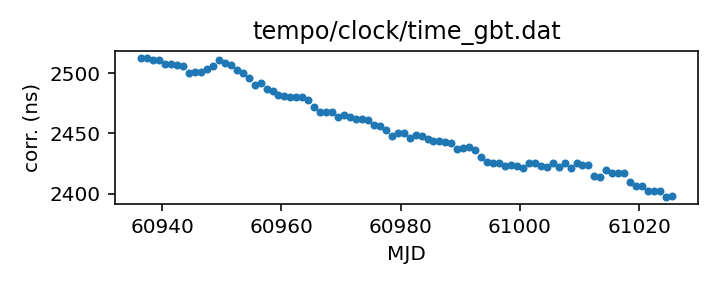
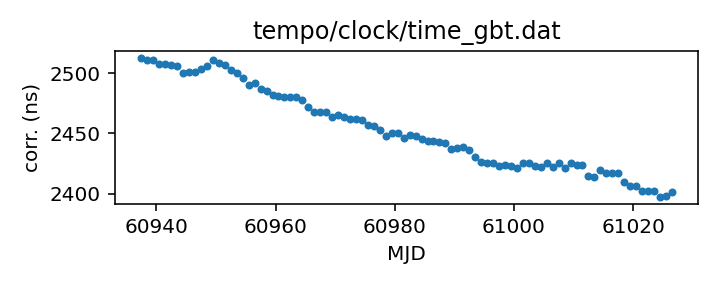
Routine gh-pages update from Github action Thu Dec 18 20:42:24 UTC 2025

diff --git a/status.md b/status.md
@@ -13,18 +13,18 @@ name of each clock file links to a page with more details.
 
 | Name | File | Corrections start | Corrections end | Last check date | Last check result 
 |:--- |:--- | --- | --- | --- |:--- 
-| [GPS to UTC](T2runtime/clock/gps2utc.clk.html) | `T2runtime/clock/gps2utc.clk` | 1993-01-01 MJD 48988.0 | 2025-11-30 MJD 61009.0 | 2025-12-17 | Unchanged 
-| [GPS to UTC (Combined Clock)](T2runtime/clock/gps2utc_cc.clk.html) | `T2runtime/clock/gps2utc_cc.clk` | 1993-01-01 MJD 48988.0 | 2025-11-30 MJD 61009.0 | 2025-12-17 | Unchanged 
-| [GPS to UTC (Corrected)](T2runtime/clock/gps2utc_c0p.clk.html) | `T2runtime/clock/gps2utc_c0p.clk` | 2010-12-29 MJD 55559.0 | 2025-11-30 MJD 61009.0 | 2025-12-17 | Unchanged 
-| [GBT](tempo/clock/time_gbt.dat.html) | `tempo/clock/time_gbt.dat` | 2000-12-31 MJD 51909.5 | 2025-12-16 MJD 61025.5 | 2025-12-17 | Updated 
-| [GBT (TEMPO2 converted from TEMPO)](T2runtime/clock/gbt2gps.clk.html) | `T2runtime/clock/gbt2gps.clk` | 2000-12-31 MJD 51909.5 | 2024-05-18 MJD 60448.5 | 2025-12-17 | **Validation failed** 
+| [GPS to UTC](T2runtime/clock/gps2utc.clk.html) | `T2runtime/clock/gps2utc.clk` | 1993-01-01 MJD 48988.0 | 2025-11-30 MJD 61009.0 | 2025-12-18 | Unchanged 
+| [GPS to UTC (Combined Clock)](T2runtime/clock/gps2utc_cc.clk.html) | `T2runtime/clock/gps2utc_cc.clk` | 1993-01-01 MJD 48988.0 | 2025-11-30 MJD 61009.0 | 2025-12-18 | Unchanged 
+| [GPS to UTC (Corrected)](T2runtime/clock/gps2utc_c0p.clk.html) | `T2runtime/clock/gps2utc_c0p.clk` | 2010-12-29 MJD 55559.0 | 2025-11-30 MJD 61009.0 | 2025-12-18 | Unchanged 
+| [GBT](tempo/clock/time_gbt.dat.html) | `tempo/clock/time_gbt.dat` | 2000-12-31 MJD 51909.5 | 2025-12-17 MJD 61026.5 | 2025-12-18 | Updated 
+| [GBT (TEMPO2 converted from TEMPO)](T2runtime/clock/gbt2gps.clk.html) | `T2runtime/clock/gbt2gps.clk` | 2000-12-31 MJD 51909.5 | 2024-05-18 MJD 60448.5 | 2025-12-18 | **Validation failed** 
 | [Jodrell Bank](T2runtime/clock/jb2gps.clk.html) | `T2runtime/clock/jb2gps.clk` | 2006-10-13 MJD 54021.4 | 2025-10-08 MJD 60956.0 | 2025-12-15 | **Validation failed** 
 | [Jodrell Bank Roach](T2runtime/clock/jbroach2jb.clk.html) | `T2runtime/clock/jbroach2jb.clk` | 2006-10-13 MJD 54021.4 | 2018-03-20 MJD 58197.6 | 2025-12-15 | Unchanged 
 | [Jodrell Bank DFB](T2runtime/clock/jbdfb2jb.clk.html) | `T2runtime/clock/jbdfb2jb.clk` | 2006-10-13 MJD 54021.4 | 2021-02-22 MJD 59268.0 | 2025-12-15 | Unchanged 
 | [Meerkat (observatory)](T2runtime/clock/mk2utc_observatory.clk.html) | `T2runtime/clock/mk2utc_observatory.clk` | 2019-01-01 MJD 58484.0 | 2025-12-06 MJD 61016.0 | 2025-12-15 | Updated 
-| [Leap seconds](tempo/clock/leap.sec.html) | `tempo/clock/leap.sec` | 1972-07-01 MJD 41499.0 | 2017-01-01 MJD 57754.0 | 2025-12-17 | Unchanged 
-| [UT1 table](tempo/clock/ut1.dat.html) | `tempo/clock/ut1.dat` | 1973-01-02 MJD 41684.0 | 2026-12-19 MJD 61393.0 | 2025-12-17 | Unchanged 
-| [UT1 table](T2runtime/clock/ut1.dat.html) | `T2runtime/clock/ut1.dat` | 1973-01-02 MJD 41684.0 | 2026-12-19 MJD 61393.0 | 2025-12-17 | Unchanged 
+| [Leap seconds](tempo/clock/leap.sec.html) | `tempo/clock/leap.sec` | 1972-07-01 MJD 41499.0 | 2017-01-01 MJD 57754.0 | 2025-12-18 | Unchanged 
+| [UT1 table](tempo/clock/ut1.dat.html) | `tempo/clock/ut1.dat` | 1973-01-02 MJD 41684.0 | 2026-12-26 MJD 61400.0 | 2025-12-18 | Updated 
+| [UT1 table](T2runtime/clock/ut1.dat.html) | `T2runtime/clock/ut1.dat` | 1973-01-02 MJD 41684.0 | 2026-12-26 MJD 61400.0 | 2025-12-18 | Updated 
 
 
 

diff --git a/T2runtime/clock/gbt2gps.clk.md b/T2runtime/clock/gbt2gps.clk.md
@@ -25,12 +25,11 @@ If questions arise about the conversion, contact Anne Archibald
 | Clock file start | 2000-12-31 MJD 51909.5 |
 | Clock file end | 2024-05-18 MJD 60448.5 |
 | Update interval (days) | 1 |
-| Last update attempt | 2025-12-17 |
+| Last update attempt | 2025-12-18 |
 | Last update result | Validation failed |
 
 Log entries from the last few update attempts:
 ```
-2025-12-08 20:45:09.899 - Validation failed: New version of T2runtime/clock/gbt2gps.clk MJDs differ from old version where they overlap in 8407 places
 2025-12-09 20:40:51.454 - Validation failed: New version of T2runtime/clock/gbt2gps.clk MJDs differ from old version where they overlap in 8407 places
 2025-12-10 20:47:13.514 - Validation failed: New version of T2runtime/clock/gbt2gps.clk MJDs differ from old version where they overlap in 8407 places
 2025-12-11 20:43:23.197 - Validation failed: New version of T2runtime/clock/gbt2gps.clk MJDs differ from old version where they overlap in 8407 places
@@ -40,6 +39,7 @@ Log entries from the last few update attempts:
 2025-12-15 20:46:25.577 - Validation failed: New version of T2runtime/clock/gbt2gps.clk MJDs differ from old version where they overlap in 8407 places
 2025-12-16 20:45:44.575 - Validation failed: New version of T2runtime/clock/gbt2gps.clk MJDs differ from old version where they overlap in 8407 places
 2025-12-17 20:46:13.616 - Validation failed: New version of T2runtime/clock/gbt2gps.clk MJDs differ from old version where they overlap in 8407 places
+2025-12-18 20:42:00.607 - Validation failed: New version of T2runtime/clock/gbt2gps.clk MJDs differ from old version where they overlap in 8407 places
 ```
 [Full log](https://raw.githubusercontent.com/ipta/pulsar-clock-corrections/main/log/T2runtime/clock/gbt2gps.clk.log)
 

diff --git a/tempo/clock/time_gbt.dat.md b/tempo/clock/time_gbt.dat.md
@@ -36,14 +36,13 @@ If questions arise, contact Ryan S. Lynch <rlynch@nrao.edu>.
 | Format | tempo |
 | Bogus last correction | False |
 | Clock file start | 2000-12-31 MJD 51909.5 |
-| Clock file end | 2025-12-16 MJD 61025.5 |
+| Clock file end | 2025-12-17 MJD 61026.5 |
 | Update interval (days) | 1 |
-| Last update attempt | 2025-12-17 |
+| Last update attempt | 2025-12-18 |
 | Last update result | Updated |
 
 Log entries from the last few update attempts:
 ```
-2025-12-08 20:45:09.366 - Updated
 2025-12-09 20:40:51.383 - Updated
 2025-12-10 20:47:13.444 - Updated
 2025-12-11 20:43:23.129 - Updated
@@ -53,12 +52,13 @@ Log entries from the last few update attempts:
 2025-12-15 20:46:24.831 - Updated
 2025-12-16 20:45:44.496 - Updated
 2025-12-17 20:46:13.546 - Updated
+2025-12-18 20:42:00.536 - Updated
 ```
 [Full log](https://raw.githubusercontent.com/ipta/pulsar-clock-corrections/main/log/tempo/clock/time_gbt.dat.log)
 
 Leading comments from clock file:
 
-     -2271.50       0.0        -0.486 1    32764-dec
+     -2271.50       0.0        -0.486 1    32767-dec
 
 
 

diff --git a/T2runtime/clock/ut1.dat.md b/T2runtime/clock/ut1.dat.md
@@ -28,14 +28,13 @@ If there are any questions, contact Anne Archibald
 | File | `T2runtime/clock/ut1.dat` |
 | Authority | observatory |
 | File start | 1973-01-02 MJD 41684.0 |
-| File end | 2026-12-19 MJD 61393.0 |
+| File end | 2026-12-26 MJD 61400.0 |
 | Update interval (days) | 0 |
-| Last update attempt | 2025-12-17 |
-| Last update result | Unchanged |
+| Last update attempt | 2025-12-18 |
+| Last update result | Updated |
 
 Log entries from the last few update attempts:
 ```
-2025-12-08 20:45:40.887 - Unchanged
 2025-12-09 20:41:03.247 - Unchanged
 2025-12-10 20:47:22.475 - Unchanged
 2025-12-11 20:43:35.801 - Updated
@@ -45,5 +44,6 @@ Log entries from the last few update attempts:
 2025-12-15 20:47:00.215 - Unchanged
 2025-12-16 20:45:58.109 - Unchanged
 2025-12-17 20:46:21.645 - Unchanged
+2025-12-18 20:42:09.736 - Updated
 ```
 [Full log](https://raw.githubusercontent.com/ipta/pulsar-clock-corrections/main/log/T2runtime/clock/ut1.dat.log)

diff --git a/tempo/clock/ut1.dat.md b/tempo/clock/ut1.dat.md
@@ -28,14 +28,13 @@ If there are any questions, contact Anne Archibald
 | File | `tempo/clock/ut1.dat` |
 | Authority | observatory |
 | File start | 1973-01-02 MJD 41684.0 |
-| File end | 2026-12-19 MJD 61393.0 |
+| File end | 2026-12-26 MJD 61400.0 |
 | Update interval (days) | 0 |
-| Last update attempt | 2025-12-17 |
-| Last update result | Unchanged |
+| Last update attempt | 2025-12-18 |
+| Last update result | Updated |
 
 Log entries from the last few update attempts:
 ```
-2025-12-08 20:45:40.843 - Unchanged
 2025-12-09 20:41:03.198 - Unchanged
 2025-12-10 20:47:22.426 - Unchanged
 2025-12-11 20:43:35.753 - Updated
@@ -45,5 +44,6 @@ Log entries from the last few update attempts:
 2025-12-15 20:47:00.166 - Unchanged
 2025-12-16 20:45:58.061 - Unchanged
 2025-12-17 20:46:21.596 - Unchanged
+2025-12-18 20:42:09.687 - Updated
 ```
 [Full log](https://raw.githubusercontent.com/ipta/pulsar-clock-corrections/main/log/tempo/clock/ut1.dat.log)

diff --git a/T2runtime/clock/gps2utc_c0p.clk.md b/T2runtime/clock/gps2utc_c0p.clk.md
@@ -30,12 +30,11 @@ about the BIPM's published corrections, contact <tai@bipm.org>.
 | Clock file start | 2010-12-29 MJD 55559.0 |
 | Clock file end | 2025-11-30 MJD 61009.0 |
 | Update interval (days) | 1 |
-| Last update attempt | 2025-12-17 |
+| Last update attempt | 2025-12-18 |
 | Last update result | Unchanged |
 
 Log entries from the last few update attempts:
 ```
-2025-12-08 20:45:08.424 - Unchanged
 2025-12-09 20:40:50.518 - Unchanged
 2025-12-10 20:47:12.900 - Unchanged
 2025-12-11 20:43:22.235 - Updated
@@ -45,6 +44,7 @@ Log entries from the last few update attempts:
 2025-12-15 20:46:23.932 - Unchanged
 2025-12-16 20:45:43.409 - Unchanged
 2025-12-17 20:46:13.249 - Unchanged
+2025-12-18 20:42:00.134 - Unchanged
 ```
 [Full log](https://raw.githubusercontent.com/ipta/pulsar-clock-corrections/main/log/T2runtime/clock/gps2utc_c0p.clk.log)
 

diff --git a/T2runtime/clock/gps2utc_cc.clk.md b/T2runtime/clock/gps2utc_cc.clk.md
@@ -29,12 +29,11 @@ about the BIPM's published corrections, contact <tai@bipm.org>.
 | Clock file start | 1993-01-01 MJD 48988.0 |
 | Clock file end | 2025-11-30 MJD 61009.0 |
 | Update interval (days) | 1 |
-| Last update attempt | 2025-12-17 |
+| Last update attempt | 2025-12-18 |
 | Last update result | Unchanged |
 
 Log entries from the last few update attempts:
 ```
-2025-12-08 20:45:08.416 - Unchanged
 2025-12-09 20:40:50.510 - Unchanged
 2025-12-10 20:47:12.890 - Unchanged
 2025-12-11 20:43:22.210 - Updated
@@ -44,6 +43,7 @@ Log entries from the last few update attempts:
 2025-12-15 20:46:23.923 - Unchanged
 2025-12-16 20:45:43.399 - Unchanged
 2025-12-17 20:46:13.241 - Unchanged
+2025-12-18 20:42:00.126 - Unchanged
 ```
 [Full log](https://raw.githubusercontent.com/ipta/pulsar-clock-corrections/main/log/T2runtime/clock/gps2utc_cc.clk.log)
 

diff --git a/T2runtime/clock/gps2utc.clk.md b/T2runtime/clock/gps2utc.clk.md
@@ -32,12 +32,11 @@ about the BIPM's published corrections, contact <tai@bipm.org>.
 | Clock file start | 1993-01-01 MJD 48988.0 |
 | Clock file end | 2025-11-30 MJD 61009.0 |
 | Update interval (days) | 1 |
-| Last update attempt | 2025-12-17 |
+| Last update attempt | 2025-12-18 |
 | Last update result | Unchanged |
 
 Log entries from the last few update attempts:
 ```
-2025-12-08 20:45:08.395 - Unchanged
 2025-12-09 20:40:50.488 - Unchanged
 2025-12-10 20:47:12.868 - Unchanged
 2025-12-11 20:43:22.150 - Updated
@@ -47,6 +46,7 @@ Log entries from the last few update attempts:
 2025-12-15 20:46:23.901 - Unchanged
 2025-12-16 20:45:43.374 - Unchanged
 2025-12-17 20:46:13.219 - Unchanged
+2025-12-18 20:42:00.103 - Unchanged
 ```
 [Full log](https://raw.githubusercontent.com/ipta/pulsar-clock-corrections/main/log/T2runtime/clock/gps2utc.clk.log)
 

diff --git a/tempo/clock/leap.sec.md b/tempo/clock/leap.sec.md
@@ -21,12 +21,11 @@ If there are any questions, contact Anne Archibald
 | File start | 1972-07-01 MJD 41499.0 |
 | File end | 2017-01-01 MJD 57754.0 |
 | Update interval (days) | 0 |
-| Last update attempt | 2025-12-17 |
+| Last update attempt | 2025-12-18 |
 | Last update result | Unchanged |
 
 Log entries from the last few update attempts:
 ```
-2025-12-08 20:45:28.830 - Unchanged
 2025-12-09 20:40:51.480 - Unchanged
 2025-12-10 20:47:13.541 - Unchanged
 2025-12-11 20:43:23.222 - Unchanged
@@ -36,5 +35,6 @@ Log entries from the last few update attempts:
 2025-12-15 20:46:47.625 - Unchanged
 2025-12-16 20:45:44.601 - Unchanged
 2025-12-17 20:46:13.642 - Unchanged
+2025-12-18 20:42:00.633 - Unchanged
 ```
 [Full log](https://raw.githubusercontent.com/ipta/pulsar-clock-corrections/main/log/tempo/clock/leap.sec.log)
